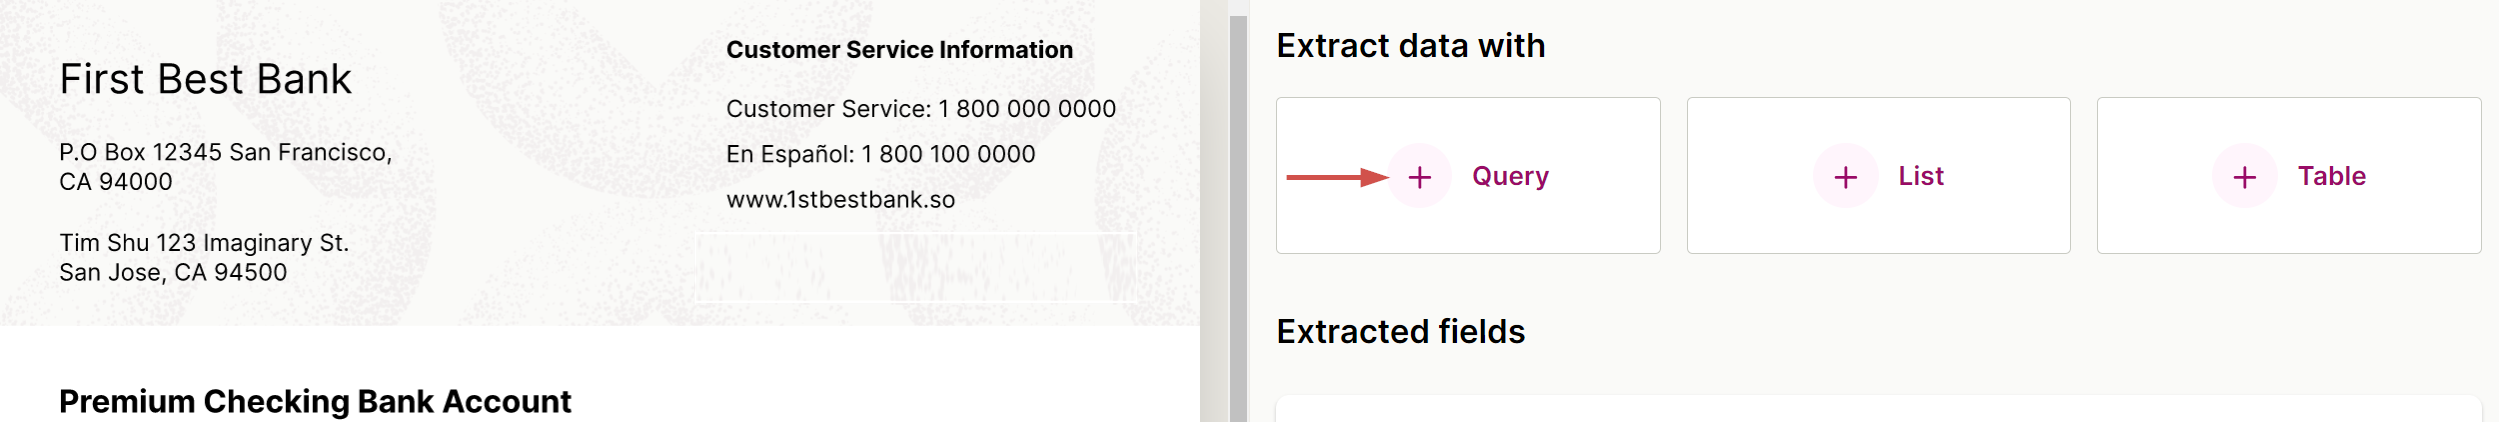
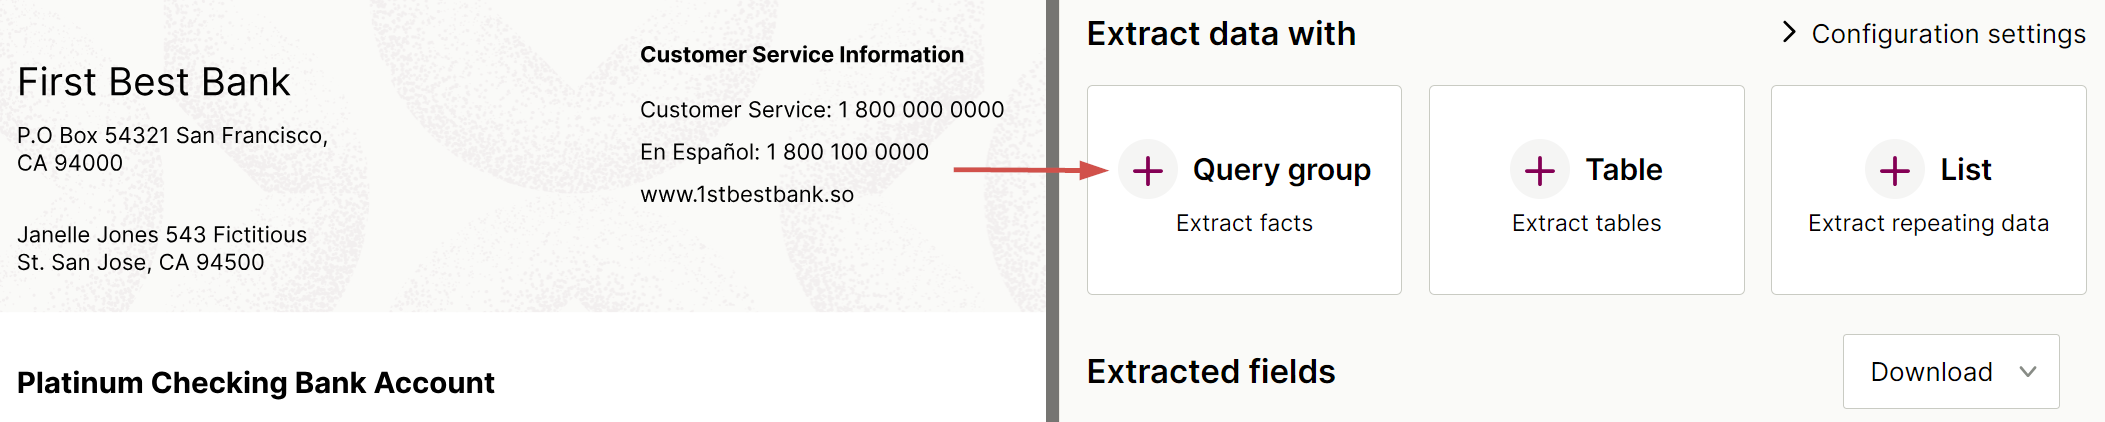
getting started

diff --git a/readme-sync/v0/welcome/2000 - getting-started-ai.md b/readme-sync/v0/welcome/2000 - getting-started-ai.md
@@ -48,11 +48,11 @@ Take the following steps to create a prompt to extract more data from the docume
 
 ## Extract an account number from a bank statement
 
-1. To extract a single data point from the document, click **Query**.
+1. To extract data points from the document, click **Query group**.
 
 ![Click to enlarge](https://raw.githubusercontent.com/sensible-hq/sensible-docs/main/readme-sync/assets/v0/images/final/quickstart_instruct_2.png)
 
-2. Edit the query as shown in the following screenshot by entering `checking account number (not savings)` in the query field. Click the **Send** icon. Sensible generates an ID for your query, in this case, `account_num_checking`.
+2. Edit the query group as shown in the following screenshot by entering `checking account number (not savings)` in the query field.  Click **Create new query** and enter  .  Click **Extract**.
 
 ![Click to enlarge](https://raw.githubusercontent.com/sensible-hq/sensible-docs/main/readme-sync/assets/v0/images/final/quickstart_instruct_3.png)
 

diff --git a/readme-sync/v0/llm-based extractions/instruct/1000 - query-group-tips.md b/readme-sync/v0/llm-based extractions/instruct/1000 - query-group-tips.md
@@ -81,7 +81,7 @@ To try out this example in the Sensible app, take the following steps:
 
 4. Ensure that you're in the **Sensible Instruct**  editor. Click **Query group** create the following queries to extract data using the following table:
 
-| Prompt                                                       | (optional) Type |
+| Prompt                                                       | (Optional) Type |
 | ------------------------------------------------------------ | --------------- |
 | tenancy terms start date                                     | Date            |
 | tenancy terms end date                                       | Date            |
